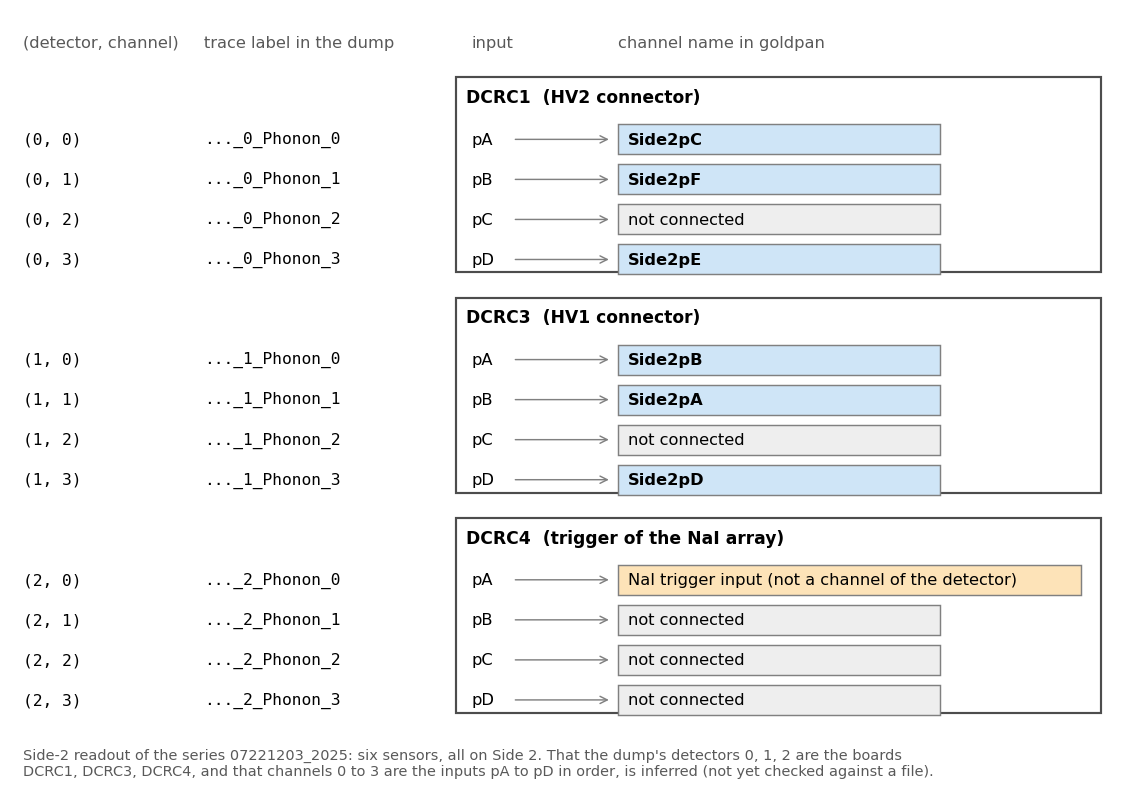
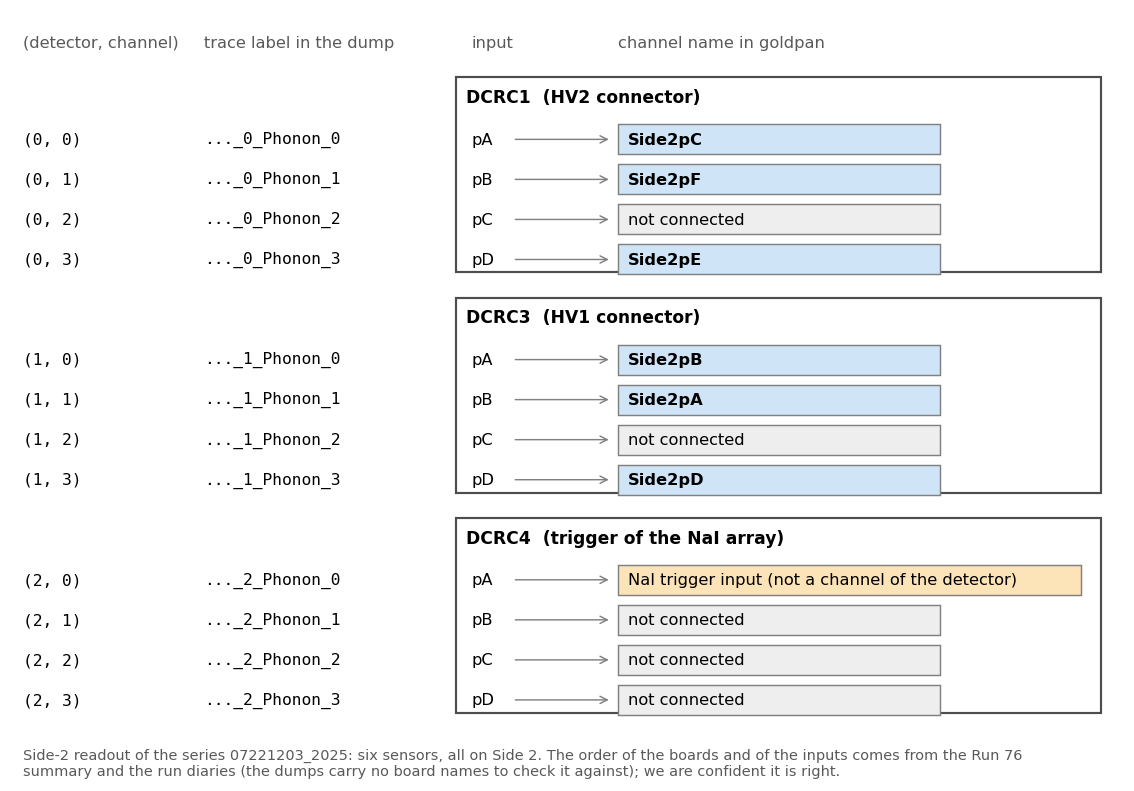
Note goldpan-sluice-intro: put the detail in collapsible boxes, use baseline_subtract, reword the channel-order caveat
The goldpan section keeps the main line in the open and moves the explanations (what next(iter_events) does, how trace labels become channel names with Figure 2, why not ds.read(), the dataset definition file) into details boxes. The analysis now calls goldpan.operations.baseline_subtract and says the traces are raw. The board and input order is described as coming from the Run 76 summary and diaries.

Changed region(s): [[0.0309, 0.9406, 0.8951, 1.0]]

diff --git a/notes/src/goldpan-sluice-intro.md b/notes/src/goldpan-sluice-intro.md
@@ -105,7 +105,7 @@ The raw dump labels a trace only by two small integers, `<event>_<detector>_Phon
 
 ![](img/goldpan-sluice-intro-fig2.png)
 
-**Figure 2: From the dump's trace labels to the channel names of the Side-2 readout.** Each box is a readout board and each row one of its four inputs. The blue rows are the six sensors, `Side2pA` to `Side2pF`. The orange row is the input of the NaI array's trigger signal, which is not a channel of the detector, and the grey rows are not connected (their signal never changes). The order of the boards and of the inputs is inferred, not yet checked against a file.
+**Figure 2: From the dump's trace labels to the channel names of the Side-2 readout.** Each box is a readout board and each row one of its four inputs. The blue rows are the six sensors, `Side2pA` to `Side2pF`. The orange row is the input of the NaI array's trigger signal, which is not a channel of the detector, and the grey rows are not connected (their signal never changes). The order of the boards and of the inputs comes from the Run 76 summary and the run diaries. The dumps carry no board names to check it against, so the registry marks it `inferred`, but we are confident it is right.
 
 The names are defined in the registry, in `registry/run76.toml` (Appendix A), as a pair `[detector, channel]` for each name: `Side2pC = [0, 0]` is channel 0 of detector 0. A dataset definition picks that up with `detector = "NAI-S2"`, and a `channels` table written in the definition file itself wins over the registry. `goldpan.channels` holds a second copy of the same map, from the setup table of the Run 76 summary; it is marked under development, and a test checks that the registry agrees with it.
 
